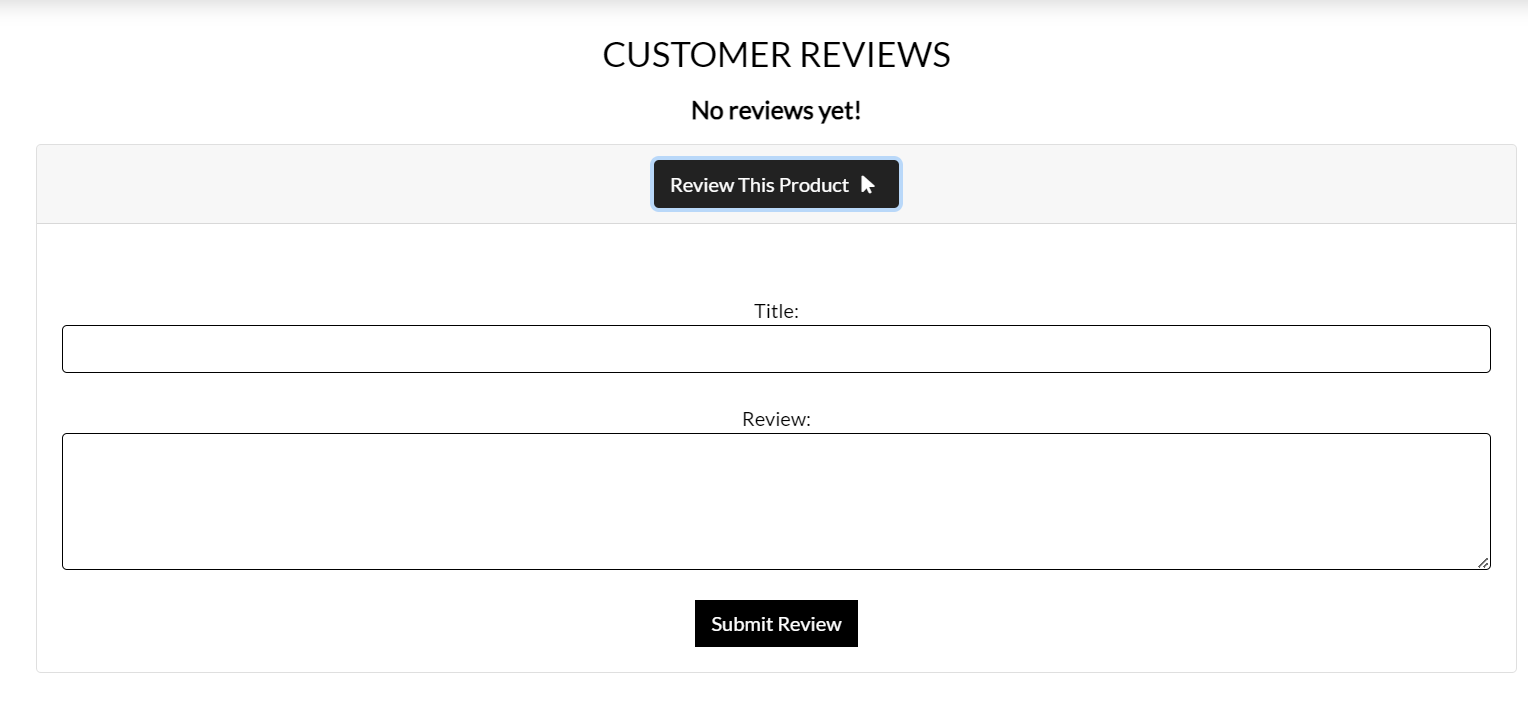
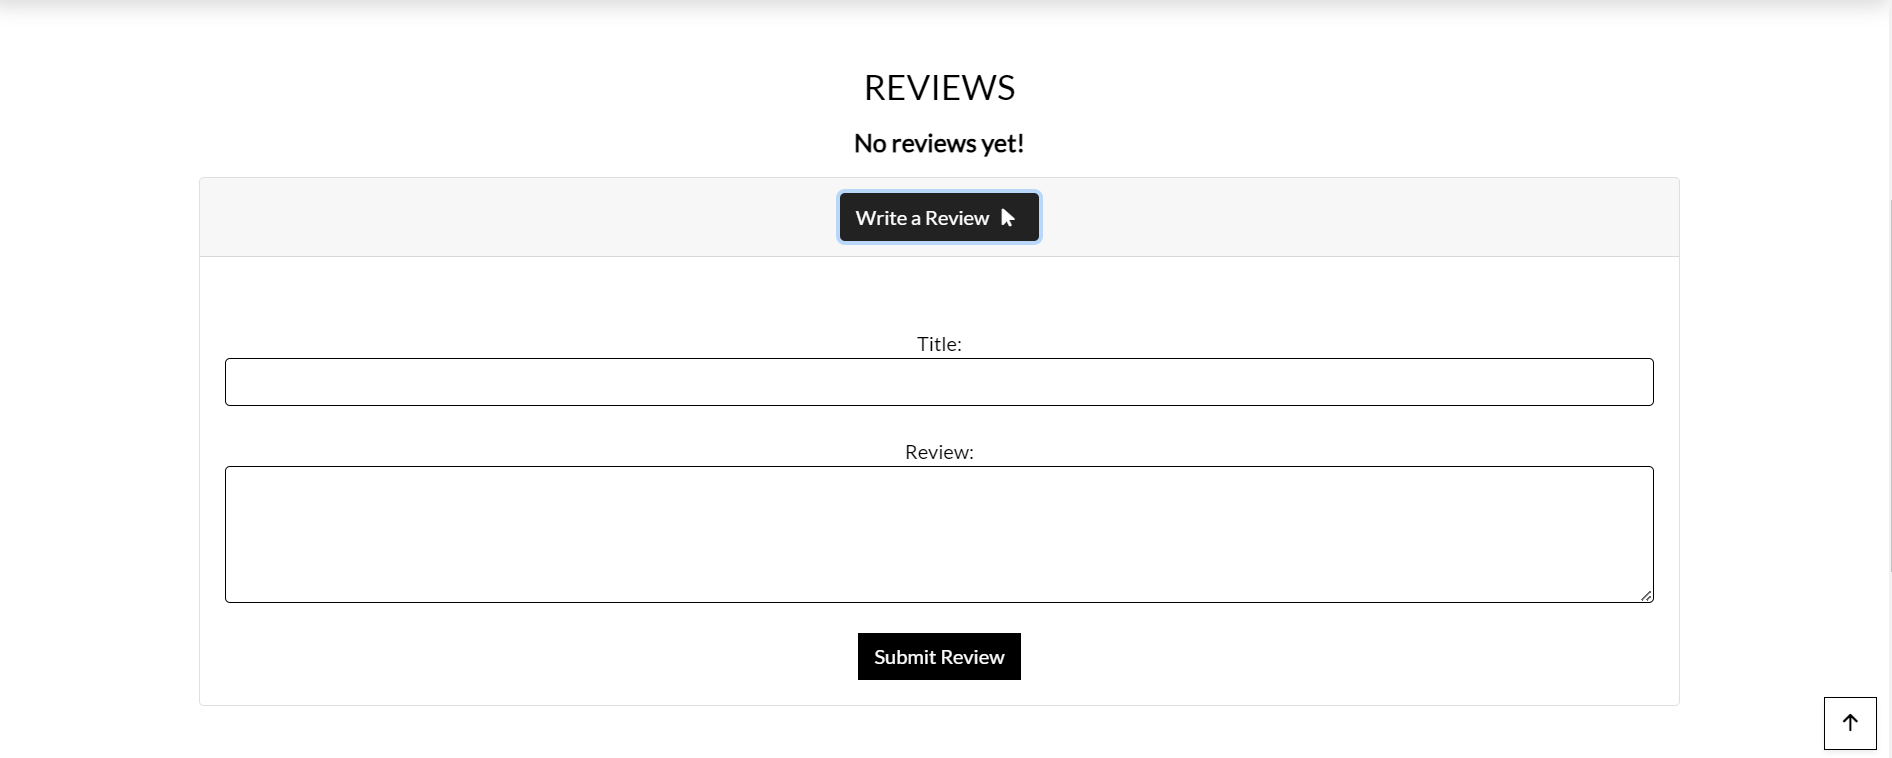
Update image review in product detail in readmi file

diff --git a/README.md b/README.md
@@ -461,11 +461,11 @@ If the user clicks the search button without entering anything, an error message
 
 - If the user is not authorized, he is prompted to log into his account or register.
 
-![Review Image](documentation/image-22.png)
-
-- If the user is authorized, he can click on “Review this product” to write a review.
- 
 ![Review Image](documentation/image-23.png)
+
+- If the user is authorized, he can click on “Write a Review” to write a review.
+ 
+![Review Image](documentation/image-22.png)
 
 - A window will open below in which the user can specify a topic and leave a review.
 
